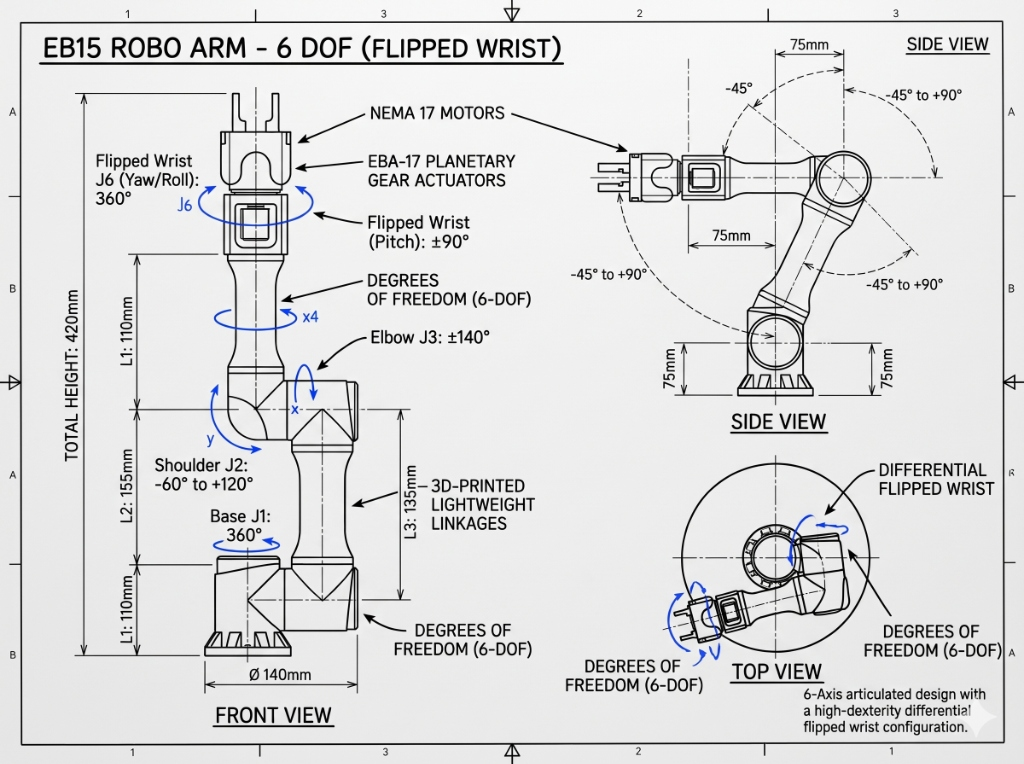
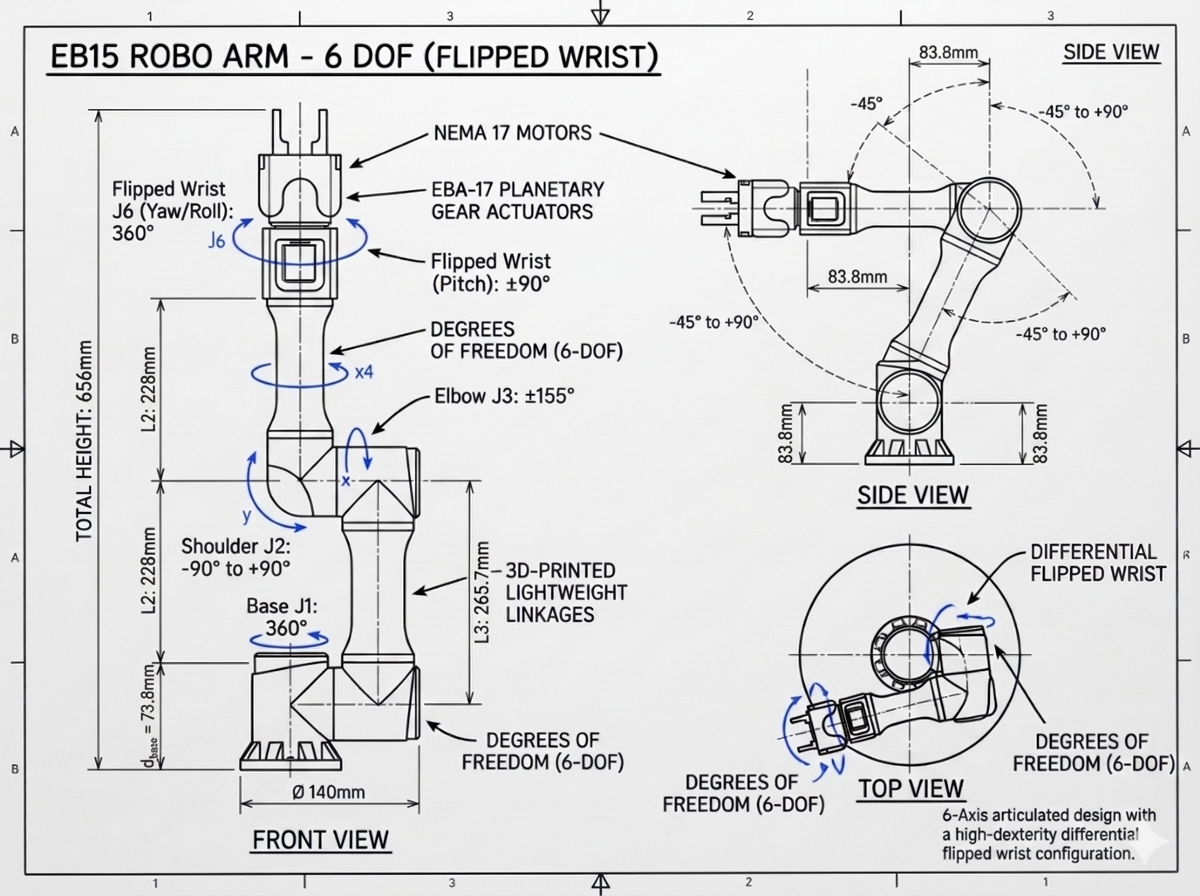
docs: update kinematic specifications and DH parameters to match CAD design

diff --git a/docs/EB15_KINEMATICS_DYNAMICS_AND_URDF_MANUAL.md b/docs/EB15_KINEMATICS_DYNAMICS_AND_URDF_MANUAL.md
@@ -34,22 +34,21 @@ The technical blueprint below illustrates the official orthographic engineering 
 
 ![EB15 Robo Arm - 6 DOF (Flipped Wrist) Blueprint](eb15_blueprint_drawing.jpg)
 
-#### Dimensional Specifications from the Official Blueprint:
+#### Dimensional Specifications from the Official Blueprint (Corrected to CAD Spec):
 * **Base Diameter:** $\varnothing 140\,\text{mm}$ circular mounting base footprint.
-* **Base Column Elevation ($L_1$):** $110\,\text{mm}$ (Mounting flange to Shoulder pitch axis $J_2$).
-* **Upper Arm Length ($L_2$):** $155\,\text{mm}$ (Shoulder pitch axis $J_2$ to Elbow pitch axis $J_3$).
-* **Forearm Link Length ($L_3$):** $135\,\text{mm}$ (Elbow pitch axis $J_3$ to Flipped Wrist pitch pivot).
-* **Wrist & Tool Module Length ($L_1$):** $110\,\text{mm}$ (Wrist pivot to gripper tip interface).
-* **Total Arm Candle Height:** $420\,\text{mm}$ (Fully extended vertical reference configuration).
+* **Base Column Elevation ($d_{\text{base}}$):** $73.8\,\text{mm}$ ($d_1 = 30.8\,\text{mm} + h_1 = 43.0\,\text{mm}$ to Shoulder pitch axis $J_2$).
+* **Upper Arm Length ($L_2$):** $228\,\text{mm}$ (Shoulder pitch axis $J_2$ to Elbow pitch axis $J_3$).
+* **Forearm Link Length ($L_3$):** $265.7\,\text{mm}$ ($L_3 = 178\,\text{mm} + L_4 = 87.7\,\text{mm}$ Elbow pitch axis to Flipped Wrist pivot).
+* **Total Arm Candle Height:** $656\,\text{mm}$ ($73.8 + 228 + 265.7 + 88.5\,\text{mm}$ with end-effector in vertical posture).
 * **Joint Offsets & Standoffs (Side Elevation View):**
-  - Base vertical riser: $75\,\text{mm}$.
-  - Upper arm lateral standoff: $75\,\text{mm}$.
-  - Forearm to wrist standoff: $75\,\text{mm}$.
+  - Base vertical riser: $83.8\,\text{mm}$.
+  - Upper arm lateral standoff: $83.8\,\text{mm}$.
+  - Forearm to wrist standoff: $83.8\,\text{mm}$.
 
 #### Joint Rotation Limits (6-Axis Articulated Design):
 * **Base Joint $J_1$ (Pan / Yaw):** $360^\circ$ continuous rotation around the vertical base axis.
-* **Shoulder Joint $J_2$ (Pitch):** $-60^\circ \text{ to } +120^\circ$ ($180^\circ$ total elevation stroke).
-* **Elbow Joint $J_3$ (Pitch):** $\pm 140^\circ$ ($280^\circ$ total bending range).
+* **Shoulder Joint $J_2$ (Pitch):** $-90^\circ \text{ to } +90^\circ$ ($180^\circ$ total elevation stroke).
+* **Elbow Joint $J_3$ (Pitch):** $\pm 155^\circ$ ($310^\circ$ total bending range matching microswitches).
 * **Forearm Roll $J_4$:** Continuous axial twist along the forearm tube.
 * **Flipped Wrist Pitch $J_5$:** $\pm 90^\circ$ ($180^\circ$ tilt range).
 * **Flipped Wrist Yaw / Roll $J_6$:** $360^\circ$ continuous tool spin.
@@ -59,7 +58,7 @@ The technical blueprint below illustrates the official orthographic engineering 
 As highlighted in the blueprint's **Top View**, the arm utilizes a **Differential Flipped Wrist** configuration:
 1. **Kinematic Decoupling:** Separates tool roll/pitch from arm positioning, eliminating wrist singularities encountered in standard spherical wrists when pointing straight down.
 2. **Mass Centering (Inertia Reduction):** The motors driving the wrist joints are mounted further back along the forearm rather than at the distal tip. This minimizes the moment of inertia about Shoulder $J_2$ and Elbow $J_3$, enabling faster dynamic response and dramatically reducing gravity torque loading on the EBA-17 gearboxes.
-3. **Planar Symmetry:** The $75\,\text{mm}$ side standoffs mirror each other, maintaining an invariant central sagittal plane for pick-and-place tasks.
+3. **Planar Symmetry:** The $83.8\,\text{mm}$ side standoffs mirror each other, maintaining an invariant central sagittal plane for pick-and-place tasks.
 
 ---
 
@@ -327,18 +326,18 @@ Taking the reference pose at **vertical candle pose** ($q = [0, 0, 0, 0]^T$):
 
 ### EB-15 6-DOF (Flipped Wrist) DH Parameter Table
 
-For the **6-DOF Flipped Wrist architecture** specified in the engineering blueprint ($L_1 = 0.110\,\text{m}, L_2 = 0.155\,\text{m}, L_3 = 0.135\,\text{m}, L_{\text{wrist}} = 0.110\,\text{m}$):
+For the **6-DOF Flipped Wrist architecture** updated to the real CAD dimensions ($d_{\text{base}} = 0.0738\,\text{m}, a_2 = 0.228\,\text{m}, a_3 = 0.2657\,\text{m}, L_{\text{wrist}} = 0.0885\,\text{m}$):
 
 | Link $i$ | Joint Variable | $\theta_i$ | $d_i$ (m) | $a_i$ (m) | $\alpha_i$ (rad) | Range (from Blueprint) |
 |---|---|---|---|---|---|---|
-| **1** (Base Pan) | $q_1$ | $q_1$ | $L_1 = 0.110$ | $0$ | $+\pi/2$ | $360^\circ$ ($[-\pi, +\pi]$) |
-| **2** (Shoulder Pitch) | $q_2$ | $q_2 + \pi/2$ | $0$ | $L_2 = 0.155$ | $0$ | $-60^\circ \text{ to } +120^\circ$ |
-| **3** (Elbow Pitch) | $q_3$ | $q_3$ | $0$ | $L_3 = 0.135$ | $+\pi/2$ | $\pm 140^\circ$ |
+| **1** (Base Pan) | $q_1$ | $q_1$ | $d_{\text{base}} = 0.0738$ | $0$ | $+\pi/2$ | $360^\circ$ ($[-\pi, +\pi]$) |
+| **2** (Shoulder Pitch) | $q_2$ | $q_2 + \pi/2$ | $0$ | $a_2 = 0.2280$ | $0$ | $-90^\circ \text{ to } +90^\circ$ |
+| **3** (Elbow Pitch) | $q_3$ | $q_3$ | $0$ | $a_3 = 0.2657$ | $+\pi/2$ | $\pm 155^\circ$ ($[-2.70, +2.70]$) |
 | **4** (Forearm Roll) | $q_4$ | $q_4$ | $0$ | $0$ | $-\pi/2$ | $360^\circ$ |
 | **5** (Wrist Pitch) | $q_5$ | $q_5$ | $0$ | $0$ | $+\pi/2$ | $\pm 90^\circ$ |
-| **6** (Wrist Roll / Tool) | $q_6$ | $q_6$ | $L_{\text{wrist}} = 0.110$ | $0$ | $0$ | $360^\circ$ |
+| **6** (Wrist Roll / Tool) | $q_6$ | $q_6$ | $L_{\text{wrist}} = 0.0885$ | $0$ | $0$ | $360^\circ$ |
 
-*Total vertical candle height:* $Z_{\text{total}} = d_1 + a_2 + a_3 + d_6 = 0.110 + 0.155 + 0.135 + 0.110 = \mathbf{0.510\,\text{m}}$ (with tool, or $420\,\text{mm}$ to wrist frame as dimensioned on the blueprint).*
+*Total vertical candle height:* $Z_{\text{total}} = d_1 + a_2 + a_3 + d_6 = 0.0738 + 0.2280 + 0.2657 + 0.0885 = \mathbf{0.6560\,\text{m}}$ ($656\,\text{mm}$ to grasp center).*
 
 ---
 
